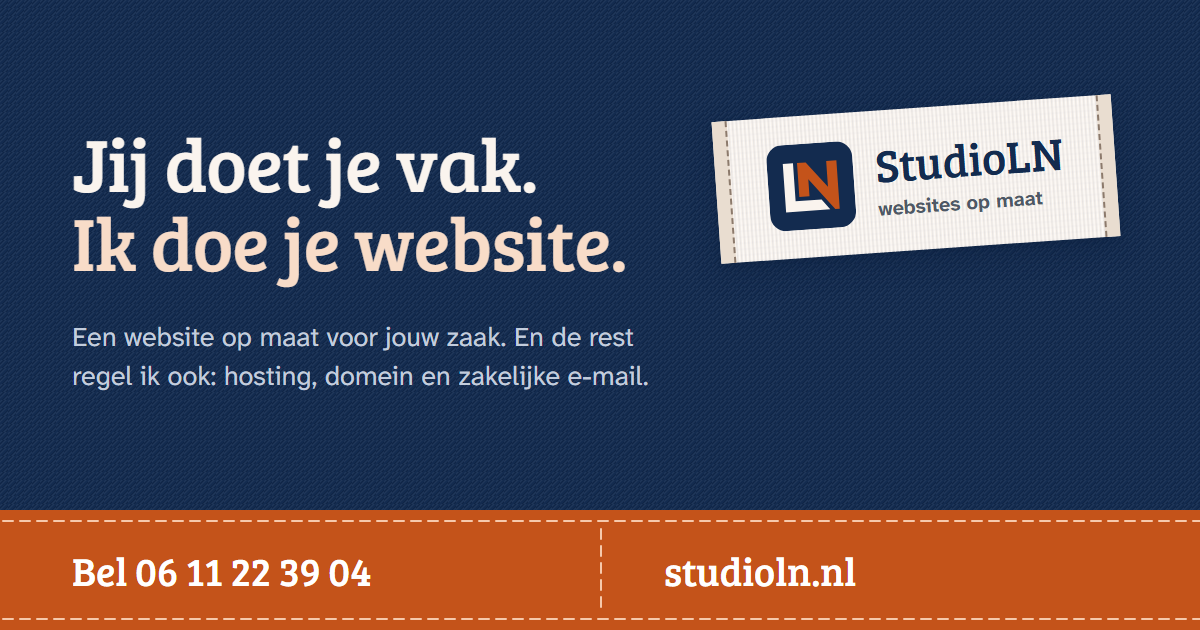
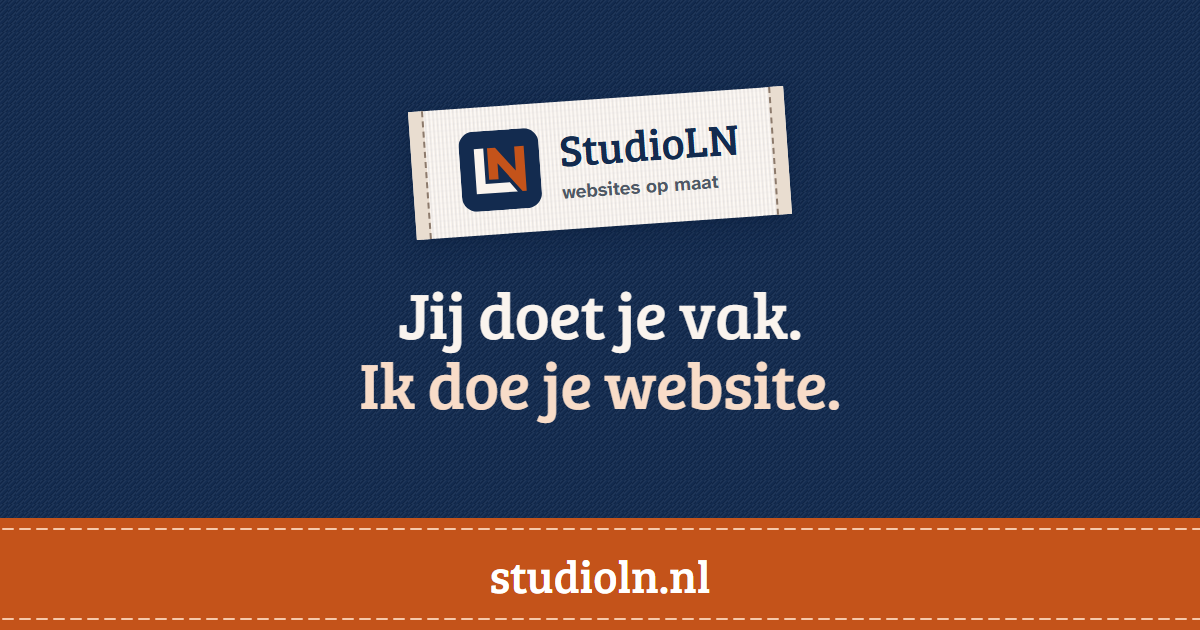
Update SEO metadata and og-image description for better clarity

diff --git a/vite.config.ts b/vite.config.ts
@@ -39,7 +39,8 @@ function seoPlugin(): Plugin {
             meta({ property: 'og:title', content: homeTitle }),
             meta({ property: 'og:description', content: pageMeta.home.description }),
             meta({ property: 'og:url', content: `${siteUrl}/` }),
-            // public/og-image.png: uitsnede van de hero, 1200x630 (zie LICENSES.md)
+            // public/og-image.png, 1200x630 (zie LICENSES.md). Alles wat telt staat in het middelste
+            // vierkant: WhatsApp snijdt de kleine preview bij tot 630x630 uit het midden.
             meta({ property: 'og:image', content: `${siteUrl}/og-image.png` }),
             meta({ property: 'og:image:width', content: '1200' }),
             meta({ property: 'og:image:height', content: '630' }),

diff --git a/.claude/conventions/launch-checklist.md b/.claude/conventions/launch-checklist.md
@@ -52,7 +52,7 @@ _Noteer hier tijdens het werk punten die vóór oplevering nog geregeld moeten w
 - Over mij en Home (12-11-2026): teksten goedgekeurd door Luca. Ze gebruiken alleen feiten uit `PRODUCT.md`; Luca mag later een persoonlijker verhaal en persoonlijke feitjes toevoegen.
 - Live op `https://studioln.nl` sinds 12-11-2026 (VPS-naam `studioln-site`, poort 5083). Nog open: de sitetabel en poortlijst in `F:/Development/StudioLN-Dashboard/.claude/vps.md` bijwerken (hier is dat gedaan); `deploy-pages.yml` draait nog bij elke push, dus weghalen of GitHub Pages uitzetten als de preview niet meer nodig is.
 - Contactformulier (12-11-2026): API in `server/`, opgezet zoals Kamerbreed; het formulier post naar `/api/contact-messages`. Draait op de VPS (`/api/health` geeft `Healthy`). Luca meldt dat het werkt (12-11-2026); controleer bij twijfel dat een testbericht in `contact@studioln.nl` aankomt met de bezoeker als reply-to. In Brevo controleren dat `studioln.nl` als afzenderdomein geverifieerd is en dat de bewaarinstelling (logs een maand, previews nooit) geldt voor het account dat deze key gebruikt.
-- SEO (12-11-2026): robots.txt, sitemap, beschrijving en canonical per pagina, deeltags en schema.org staan. De beschrijvingen in `src/Config/seo.ts` zijn concept. Google Search Console staat (12-11-2026): domein geverifieerd met een TXT-record bij TransIP, sitemap ingediend (7 pagina's gevonden), indexering van de homepage aangevraagd en de live test geslaagd. Over een week bij "Pagina's" kijken wat er geïndexeerd is. Deelafbeelding staat (`public/og-image.png`, 1200×630, 12-11-2026): bevat de hero-kop en het telefoonnummer; verandert een van beide, maak hem dan opnieuw.
+- SEO (12-11-2026): robots.txt, sitemap, beschrijving en canonical per pagina, deeltags en schema.org staan. De beschrijvingen in `src/Config/seo.ts` zijn concept. Google Search Console staat (12-11-2026): domein geverifieerd met een TXT-record bij TransIP, sitemap ingediend (7 pagina's gevonden), indexering van de homepage aangevraagd en de live test geslaagd. Over een week bij "Pagina's" kijken wat er geïndexeerd is. Deelafbeelding staat (`public/og-image.png`, 1200×630, 12-11-2026): bevat het label, de hero-kop en het adres, allemaal binnen het middelste vierkant van 630×630, omdat WhatsApp de kleine preview daartoe bijsnijdt. Verandert de kop, maak hem dan opnieuw.
 - Prijzen: bedragen in `src/Config/pricing.ts` volgen de dashboardcatalogus (stand 11-11-2026); vóór livegang nog eens naast het dashboard leggen.
 - Werkwijze staat (11-11-2026); de kop, ondertitel en patroonnamen zijn goedgekeurd door Luca (12-11-2026). De verzonnen voorbeeldsites ("Jouw Bedrijf" en "Jouw Klusbedrijf", met hun teksten) is als verzonnen gelabeld en bevat geen cijfers of reviews; zo houden. Het traject van eerste gesprek tot online komt later op die pagina.
 - Privacyverklaring (concept, 12-11-2026, `src/Config/privacy.ts` en `src/Modules/Privacy`): Luca en liefst een jurist moeten hem nakijken. Geregeld: bewaartermijn 1 jaar na laatste contact (bevestigd door Luca, 12-11-2026); de API slaat niets op en gaat via Brevo naar de mailbox; Caddy heeft geen `log`-regel, dus geen toegangslog met IP-adressen. Nog voor een jurist: (1) of het adres in de verklaring moet (nu bewust niet, zie PRODUCT.md); (2) de grondslag (nu art. 6 lid 1 sub f).
